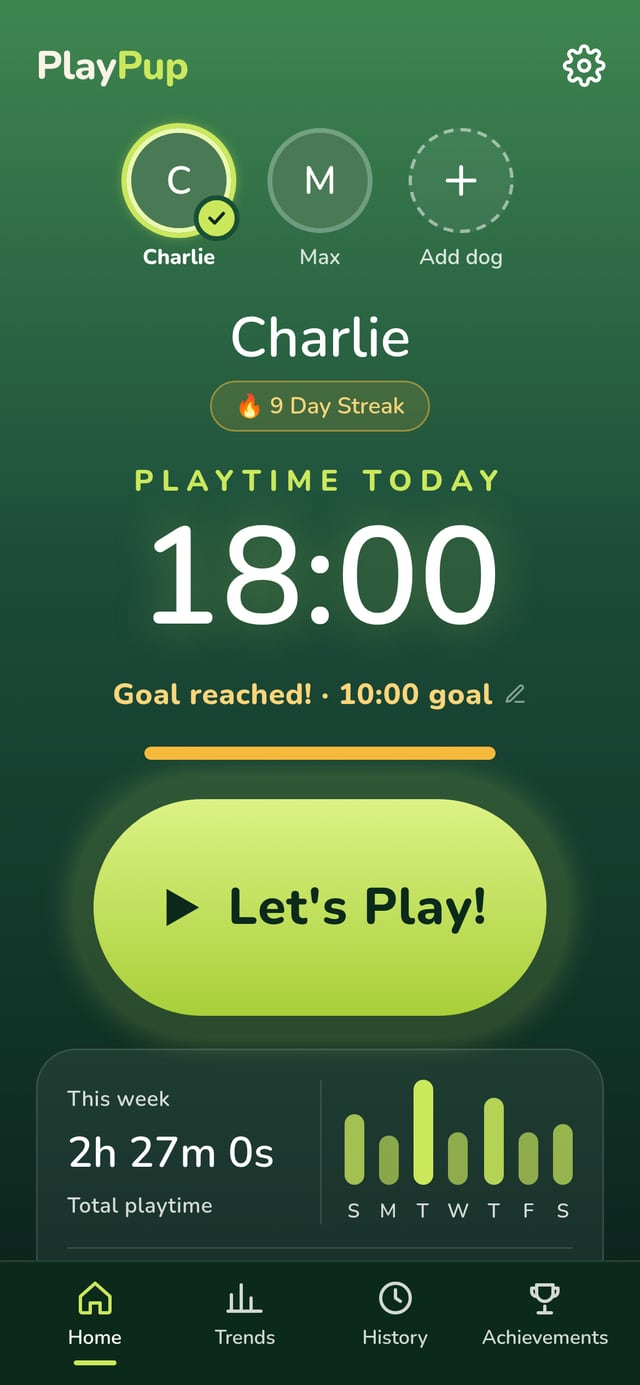
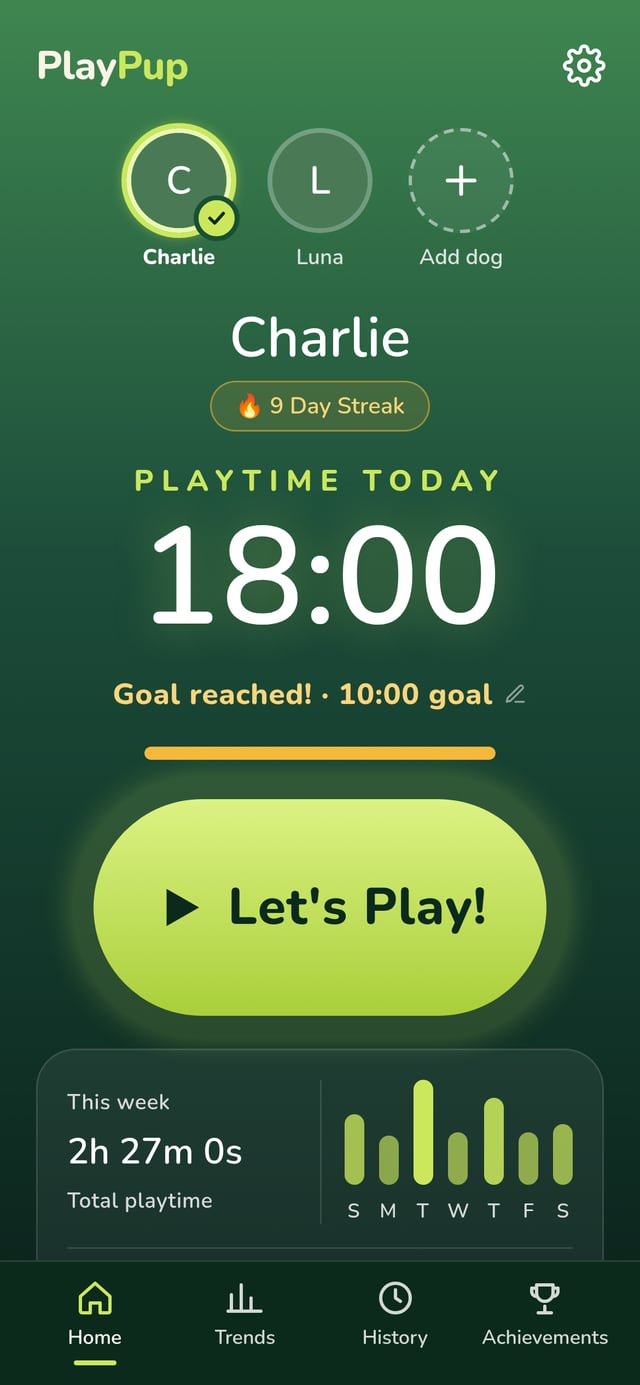
Showcase: add Play Together screen (Charlie & Luna on one timer)
Four screens: Home, Timer, Play Together, Trends; second sample dog is
Luna in all of them. Four across on computers, two by two on tablets,
swipeable on phones. Stylesheet bumped to v=4.

Changed region(s): [[0.0938, 0.7762, 0.4375, 0.9004], [0.4688, 0.1242, 0.5312, 0.2173]]

diff --git a/index.html b/index.html
@@ -13,7 +13,7 @@
   <meta property="og:image" content="https://playpup.app/assets/og-image.png">
   <meta property="og:url" content="https://playpup.app/">
   <meta name="twitter:card" content="summary_large_image">
-  <link rel="stylesheet" href="assets/site.css?v=3">
+  <link rel="stylesheet" href="assets/site.css?v=4">
 </head>
 <body>
   <header class="site-header">
@@ -51,9 +51,13 @@
             <div class="phone"><img src="assets/screens/home.jpg" alt="PlayPup Home screen: Charlie selected, 18 minutes of playtime today with the daily goal reached, a large Let's Play button, and this week's playtime bars" width="640" height="1385"></div>
             <figcaption><b>Home</b>See today's playtime, reach your goals, and celebrate every minute together.</figcaption>
           </figure>
-          <figure class="phone-fig featured">
-            <div class="phone"><img src="assets/screens/timer.jpg" alt="PlayPup timer running at 12 minutes 22 seconds, with Pause and Finish Playtime buttons" width="640" height="1385"></div>
+          <figure class="phone-fig">
+            <div class="phone"><img src="assets/screens/timer.jpg" alt="PlayPup timer running at 12 minutes, with Pause and Finish Playtime buttons" width="640" height="1385"></div>
             <figcaption><b>Timer</b>One tap to start. Pause or finish whenever you like.</figcaption>
+          </figure>
+          <figure class="phone-fig">
+            <div class="phone"><img src="assets/screens/together.jpg" alt="Playing together: Charlie and Luna both selected, a 2 Day Streak Together, and one timer running for both dogs" width="640" height="1385"></div>
+            <figcaption><b>Play Together</b>One timer, multiple happy pups. Track playtime with two or more dogs at once, giving each dog credit for every minute together.</figcaption>
           </figure>
           <figure class="phone-fig">
             <div class="phone"><img src="assets/screens/trends.jpg" alt="PlayPup Trends: a 30-day playtime chart with total playtime, average per day and session count" width="640" height="1385"></div>

diff --git a/assets/site.css b/assets/site.css
@@ -66,8 +66,8 @@ section { padding-block: 36px; }
 /* App showcase: the star of the page */
 .showcase { padding-block: 30px 46px; }
 .phones {
-  display: grid; grid-template-columns: repeat(3, minmax(0, 1fr)); gap: clamp(16px, 3vw, 36px);
-  align-items: center; max-width: 900px; margin: 34px auto 0;
+  display: grid; grid-template-columns: repeat(4, minmax(0, 1fr)); gap: clamp(16px, 2.4vw, 30px);
+  align-items: start; max-width: 1040px; margin: 34px auto 0;
 }
 .phone-fig { margin: 0; text-align: center; }
 .phone {
@@ -76,9 +76,12 @@ section { padding-block: 36px; }
   box-shadow: 0 26px 60px rgba(0, 0, 0, 0.45), 0 0 0 1px rgba(203, 232, 92, 0.06);
 }
 .phone img { border-radius: 30px; width: 100%; }
-.phone-fig.featured .phone { transform: scale(1.07); box-shadow: 0 30px 70px rgba(0, 0, 0, 0.5), 0 0 60px rgba(203, 232, 92, 0.18); }
 .phone-fig figcaption { position: relative; z-index: 1; margin-top: 22px; color: var(--muted); font-size: 15px; line-height: 1.45; padding-inline: 6px; }
 .phone-fig figcaption b { display: block; color: var(--cream); font-size: 17px; margin-bottom: 2px; }
+@media (max-width: 900px) and (min-width: 721px) {
+  /* Tablets: two by two. */
+  .phones { grid-template-columns: repeat(2, minmax(0, 1fr)); max-width: 620px; row-gap: 40px; }
+}
 @media (max-width: 720px) {
   /* On phones: swipe through the screens. */
   .phones {
@@ -88,7 +91,6 @@ section { padding-block: 36px; }
   }
   .phones::-webkit-scrollbar { display: none; }
   .phone-fig { scroll-snap-align: center; }
-  .phone-fig.featured .phone { transform: none; }
 }
 
 /* Why PlayPup: four glass cards */

diff --git a/404.html b/404.html
@@ -6,7 +6,7 @@
   <title>Page not found · PlayPup</title>
   <meta name="theme-color" content="#1c4c3a">
   <link rel="icon" type="image/png" href="/assets/favicon.png">
-  <link rel="stylesheet" href="/assets/site.css?v=3">
+  <link rel="stylesheet" href="/assets/site.css?v=4">
 </head>
 <body>
   <main class="narrow doc" style="text-align:center; padding-top:60px">

diff --git a/privacy.html b/privacy.html
@@ -8,7 +8,7 @@
   <meta name="theme-color" content="#1c4c3a">
   <link rel="icon" type="image/png" href="assets/favicon.png">
   <link rel="apple-touch-icon" href="assets/apple-touch-icon.png">
-  <link rel="stylesheet" href="assets/site.css?v=3">
+  <link rel="stylesheet" href="assets/site.css?v=4">
 </head>
 <body>
   <header class="site-header">

diff --git a/support.html b/support.html
@@ -8,7 +8,7 @@
   <meta name="theme-color" content="#1c4c3a">
   <link rel="icon" type="image/png" href="assets/favicon.png">
   <link rel="apple-touch-icon" href="assets/apple-touch-icon.png">
-  <link rel="stylesheet" href="assets/site.css?v=3">
+  <link rel="stylesheet" href="assets/site.css?v=4">
 </head>
 <body>
   <header class="site-header">

diff --git a/terms.html b/terms.html
@@ -8,7 +8,7 @@
   <meta name="theme-color" content="#1c4c3a">
   <link rel="icon" type="image/png" href="assets/favicon.png">
   <link rel="apple-touch-icon" href="assets/apple-touch-icon.png">
-  <link rel="stylesheet" href="assets/site.css?v=3">
+  <link rel="stylesheet" href="assets/site.css?v=4">
 </head>
 <body>
   <header class="site-header">
